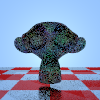
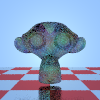
fixed prt need for static init

diff --git a/src/device/simple/queue.cpp b/src/device/simple/queue.cpp
@@ -371,149 +371,6 @@ bool SimpleDeviceQueue::enqueue(DeviceKernel kernel, const int work_size, const 
         break;
     }
 
-
-
-    /*
-    for(int i = 0; i < work_size; i++){
-    
-        *kernel_globals.idx = 0;
-        *kernel_globals.dim = 1;
-        *kernel_globals.bid = i;
-        
-        switch(kernel) {
-
-            case DeviceKernel::DEVICE_KERNEL_INTEGRATOR_INTERSECT_CLOSEST: {
-                break;
-            }
-
-            case DeviceKernel::DEVICE_KERNEL_INTEGRATOR_INIT_FROM_CAMERA: {
-                auto *tiles         = get_pointer<ccl::KernelWorkTile>(args.values[0]);
-                int   num_tiles     = get_scalar<int>(args.values[1]);
-                auto *render_buffer = get_pointer<float>(args.values[2]);
-                int   max_tile_work = get_scalar<int>(args.values[3]);
-                ::simple_integrator_init_from_camera(
-                    reinterpret_cast<::KernelWorkTile *>(tiles),
-                    num_tiles,
-                    render_buffer,
-                    max_tile_work);
-                break;
-            }
-            case DeviceKernel::DEVICE_KERNEL_INTEGRATOR_RESET: {
-                int num_states = get_scalar<int>(args.values[0]);
-                ::simple_integrator_reset(num_states);
-                break;
-            }
-            case DeviceKernel::DEVICE_KERNEL_PREFIX_SUM: {
-                int *counter = get_pointer<int>(args.values[0]);
-                int *prefix_sum = get_pointer<int>(args.values[1]);
-                int num_values = get_scalar<int>(args.values[2]);
-                ::simple_prefix_sum(counter, prefix_sum, num_values);
-                break;
-            }
-            case DeviceKernel::DEVICE_KERNEL_INTEGRATOR_SORTED_PATHS_ARRAY: {
-                int num_states = get_scalar<int>(args.values[0]);
-                int num_states_limit = get_scalar<int>(args.values[1]);
-                int *indices = get_pointer<int>(args.values[2]);
-                int *num_indices = get_pointer<int>(args.values[3]);
-                int *key_counter = get_pointer<int>(args.values[4]);
-                int *key_prefix_sum = get_pointer<int>(args.values[5]);
-                int kernel_index = get_scalar<int>(args.values[6]);
-                ::simple_integrator_sorted_paths_array(num_states, num_states_limit, indices, num_indices, key_counter, key_prefix_sum, kernel_index);
-                break;
-            }
-            case DeviceKernel::DEVICE_KERNEL_INTEGRATOR_SHADE_SURFACE: {
-                int *path_index_array = get_pointer<int>(args.values[0]);
-                float *render_buffer = get_pointer<float>(args.values[1]);
-                ::simple_integrator_shade_surface(path_index_array, render_buffer, work_size);
-                break;
-            }
-            case DeviceKernel::DEVICE_KERNEL_INTEGRATOR_SHADE_BACKGROUND: {
-                int *path_index_array = get_pointer<int>(args.values[0]);
-                float *render_buffer = get_pointer<float>(args.values[1]);
-                ::simple_integrator_shade_background(path_index_array, render_buffer, work_size);
-                break;
-            }
-            case DeviceKernel::DEVICE_KERNEL_INTEGRATOR_QUEUED_PATHS_ARRAY: {
-                int num_states = get_scalar<int>(args.values[0]);
-                int *indices = get_pointer<int>(args.values[1]);
-                int *num_indices = get_pointer<int>(args.values[2]);
-                int kernel_index = get_scalar<int>(args.values[3]);
-                ::simple_integrator_queued_paths_array(num_states, indices, num_indices, kernel_index);
-                break;
-            }
-            case DeviceKernel::DEVICE_KERNEL_INTEGRATOR_COMPACT_PATHS_ARRAY: {
-                int num_states = get_scalar<int>(args.values[0]);
-                int *indices = get_pointer<int>(args.values[1]);
-                int *num_indices = get_pointer<int>(args.values[2]);
-                int num_active_paths = get_scalar<int>(args.values[3]);
-                ::simple_integrator_compact_paths_array(num_states, indices, num_indices, num_active_paths);
-                break;
-            }
-            case DeviceKernel::DEVICE_KERNEL_INTEGRATOR_TERMINATED_PATHS_ARRAY: {
-                int num_states = get_scalar<int>(args.values[0]);
-                int *indices = get_pointer<int>(args.values[1]);
-                int *num_indices = get_pointer<int>(args.values[2]);
-                int indices_offset = get_scalar<int>(args.values[3]);
-                ::simple_integrator_terminated_paths_array(num_states, indices, num_indices, indices_offset);
-                break;
-            }
-            case DeviceKernel::DEVICE_KERNEL_INTEGRATOR_COMPACT_STATES: {
-                int *active_terminated_states = get_pointer<int>(args.values[0]);
-                int active_states_offset = get_scalar<int>(args.values[1]);
-                int terminated_states_offset = get_scalar<int>(args.values[2]);
-                int work_size = get_scalar<int>(args.values[3]);
-                ::simple_integrator_compact_states(active_terminated_states, active_states_offset, terminated_states_offset, work_size);
-                break;
-            }
-            case DeviceKernel::DEVICE_KERNEL_ADAPTIVE_SAMPLING_CONVERGENCE_CHECK: {
-                float *render_buffer = get_pointer<float>(args.values[0]);
-                int sx = get_scalar<int>(args.values[1]);
-                int sy = get_scalar<int>(args.values[2]);
-                int sw = get_scalar<int>(args.values[3]);
-                int sh = get_scalar<int>(args.values[4]);
-                float threshold = get_scalar<float>(args.values[5]);
-                int reset = get_scalar<int>(args.values[6]);
-                int offset = get_scalar<int>(args.values[7]);
-                int stride = get_scalar<int>(args.values[8]);
-                uint *num_active_pixels = get_pointer<uint>(args.values[9]);
-                ::simple_adaptive_sampling_convergence_check(render_buffer, sx, sy, sw, sh, threshold, reset, offset, stride, num_active_pixels);
-                break;
-            }
-            case DeviceKernel::DEVICE_KERNEL_INTEGRATOR_SHADE_LIGHT: {
-                int *path_index_array = get_pointer<int>(args.values[0]);
-                float *render_buffer = get_pointer<float>(args.values[1]);
-                ::simple_integrator_shade_light(path_index_array, render_buffer, work_size);
-                break;
-            }
-            case DeviceKernel::DEVICE_KERNEL_ADAPTIVE_SAMPLING_CONVERGENCE_FILTER_X: {
-                float *render_buffer = get_pointer<float>(args.values[0]);
-                int sx = get_scalar<int>(args.values[1]);
-                int sy = get_scalar<int>(args.values[2]);
-                int sw = get_scalar<int>(args.values[3]);
-                int sh = get_scalar<int>(args.values[4]);
-                int offset = get_scalar<int>(args.values[5]);
-                int stride = get_scalar<int>(args.values[6]);
-                ::simple_adaptive_sampling_filter_x(render_buffer, sx, sy, sw, sh, offset, stride);
-                break;
-            }
-            case DeviceKernel::DEVICE_KERNEL_ADAPTIVE_SAMPLING_CONVERGENCE_FILTER_Y: {
-                float *render_buffer = get_pointer<float>(args.values[0]);
-                int sx = get_scalar<int>(args.values[1]);
-                int sy = get_scalar<int>(args.values[2]);
-                int sw = get_scalar<int>(args.values[3]);
-                int sh = get_scalar<int>(args.values[4]);
-                int offset = get_scalar<int>(args.values[5]);
-                int stride = get_scalar<int>(args.values[6]);
-                ::simple_adaptive_sampling_filter_y(render_buffer, sx, sy, sw, sh, offset, stride);
-                break;
-            }
-            default:
-                std::cout << "unknown kernel " << device_kernel_as_string(kernel) << std::endl;
-                break;
-            }
-    }*/
-
-
     debug_enqueue_end();
     return true;
 }

diff --git a/src/device/simple/device_impl.cpp b/src/device/simple/device_impl.cpp
@@ -11,10 +11,6 @@
 
 CCL_NAMESPACE_BEGIN
 
-extern "C" int kernel_force_init();
-static int _force = kernel_force_init();
-
-
 SimpleDevice::SimpleDevice(const DeviceInfo &info, Stats &stats, Profiler &profiler, bool headless) : GPUDevice(info, stats, profiler, headless), object_ids_mem(this, "object_ids", MEM_GLOBAL) {
 
     prt::kernelapi_init({{"kernel_globals", sizeof(KernelParamsSimple)}, {"warp_offset", sizeof(int*)}});

diff --git a/src/kernel/device/simple/kernel.cpp b/src/kernel/device/simple/kernel.cpp
@@ -36,14 +36,3 @@
 
 #include "kernel/device/gpu/image.h"
 #include "kernel/device/gpu/kernel.h"
-
-
-static auto run = [](){
-  //std::cout << "KERNEL.CPP!!!" << std::endl;
-  return 0;
-}();
-
-
-extern "C" int kernel_force_init();
-extern "C" int kernel_force_init() { return run; }
-
